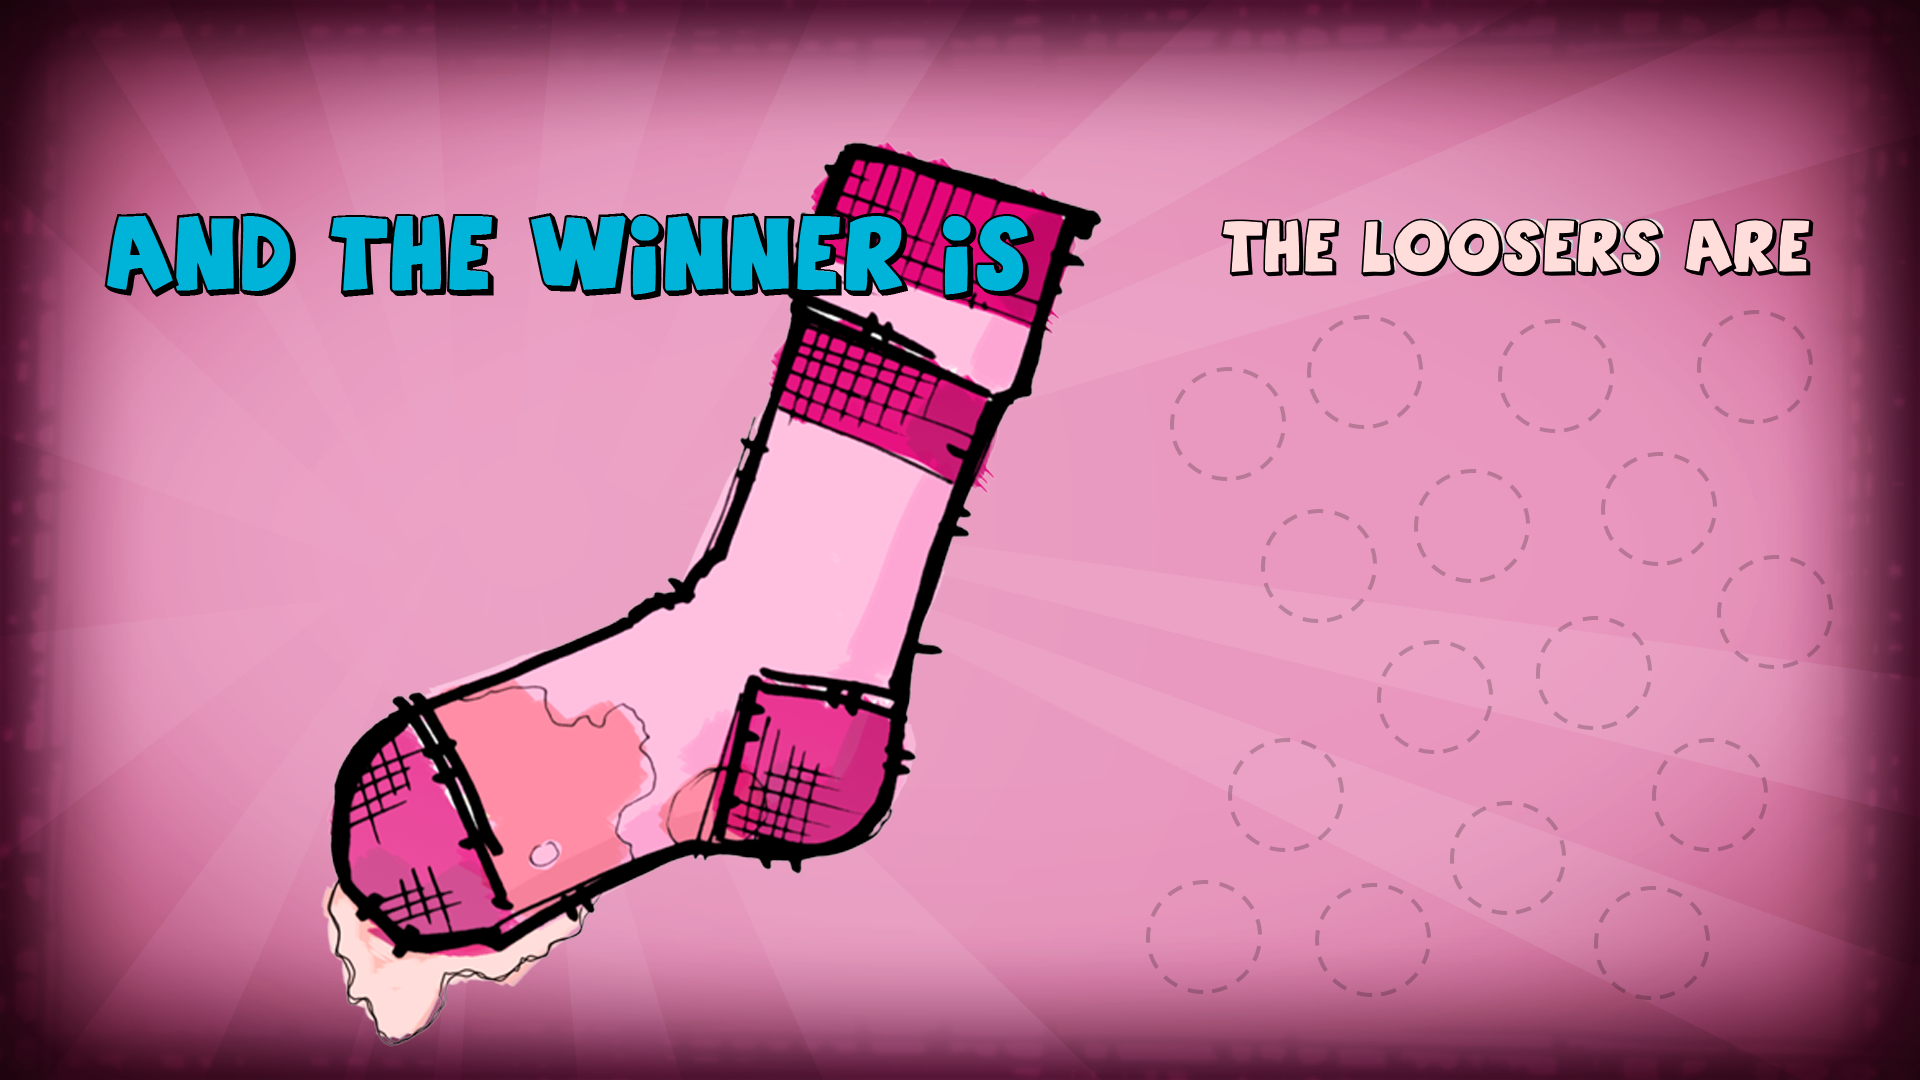
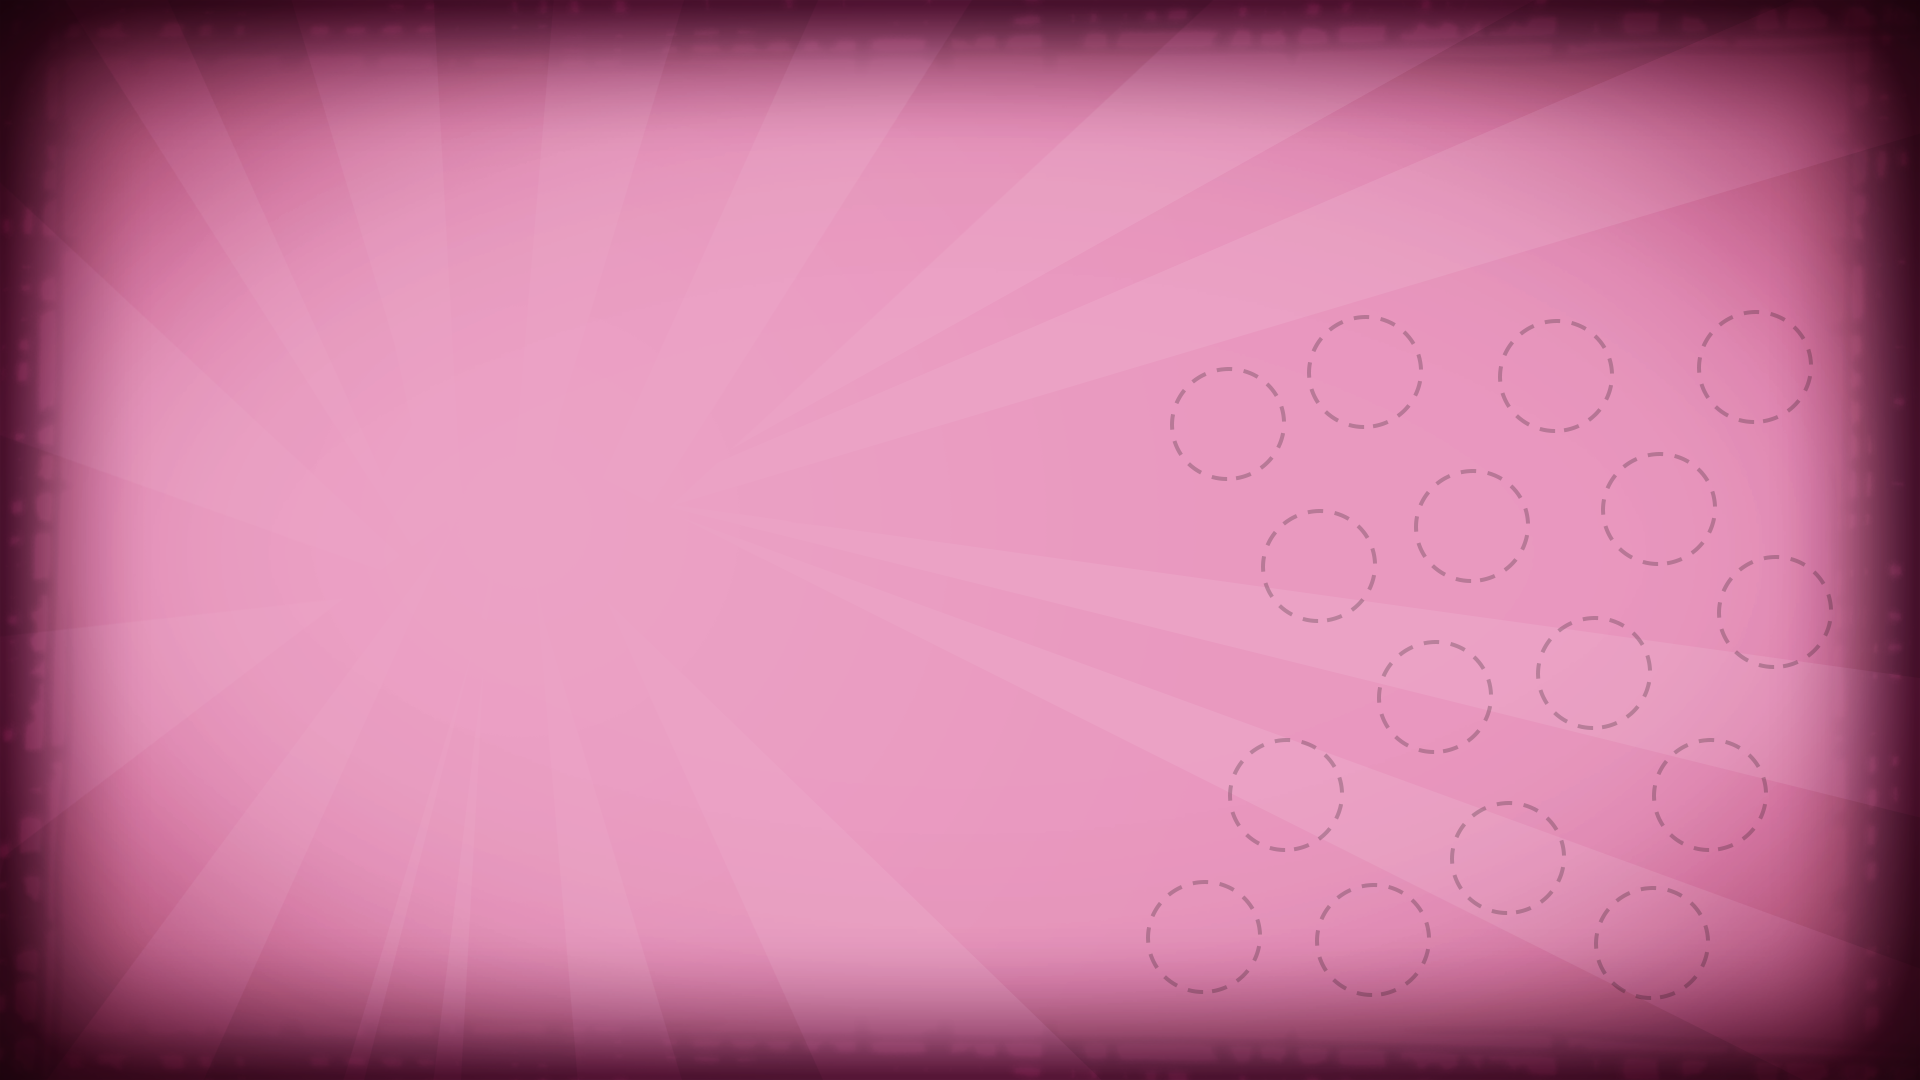
Score Screen

Changed region(s): [[0.0312, 0.1222, 0.5938, 0.9778], [0.625, 0.1833, 0.9688, 0.275]]

diff --git a/client/scripts/Board/MainMenu.js b/client/scripts/Board/MainMenu.js
@@ -1,5 +1,6 @@
 LifeSocks.MainMenu = function(game) {
 	var that = this;
+
 	board.on('startGame', function (player) {
      	console.log('startGame', player);
      	that.startGame();
@@ -14,14 +15,10 @@ LifeSocks.MainMenu.prototype = {
 	    var t = this.add.text(this.world.centerX-300, 0, text, style);
 	    this.add.sprite(0, 0, 'screen-bg');
 
-	    // We need a start button... but We'll fake this :-)
-	    /*var that = this;
-	    setTimeout(function() {
-	    	that.game.state.start('Game');
-	    }, 3000);*/
+		board.emit('boardReadyToPlay');
 
 	},
 	startGame: function() {
-		this.game.state.start('Game');
+		this.game.state.start('Score');
 	}
 };

diff --git a/client/scripts/Board/Score.js b/client/scripts/Board/Score.js
@@ -6,8 +6,8 @@ LifeSocks.Score.prototype = {
 
 	    var t = this.add.text(this.world.centerX-300, 0, text, style);
 	    this.add.sprite(0, 0, 'score-bg');
-
-	    var semenSock = this.add.sprite(0, 0, 'semen-sock');
+	    var semenSock = this.add.sprite(400, 100, 'semen-sock');
+	    this.add.sprite(0, 0, 'score-txt');
 
 	    semenSock.animations.add('drip', [
                 'semen-sock1',

diff --git a/client/scripts/Board/Preload.js b/client/scripts/Board/Preload.js
@@ -37,6 +37,7 @@ LifeSocks.Preloader.prototype = {
     this.load.image('screen-bg', 'assets/splashscreen.png');
     this.load.image('game-bg', 'assets/game_background.png');
     this.load.image('score-bg', 'assets/scorescreen_background.png');
+    this.load.image('score-txt', 'assets/scorescreen_txt.png');
 
   },
   create: function () {

diff --git a/server/server.js b/server/server.js
@@ -21,6 +21,7 @@ console.dir(player);
 var currentRoom = BoardClass.create();
 
 var addPlayer = function(player) {
+	console.log('numplayers', currentRoom.players.length);
 	currentRoom.players[player.id] = player;
 };
 
